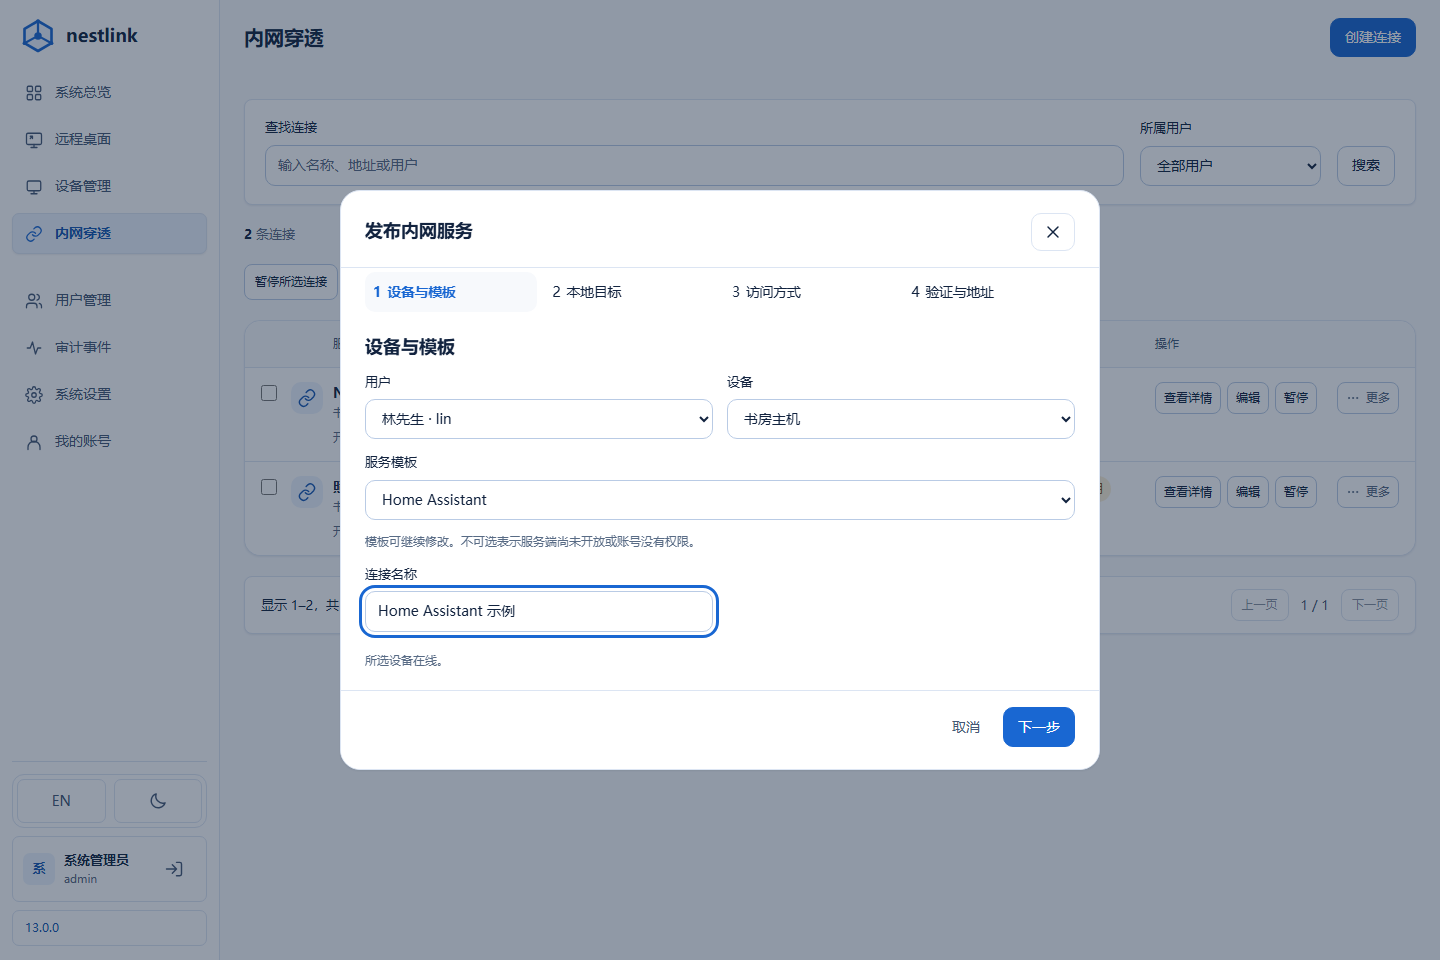
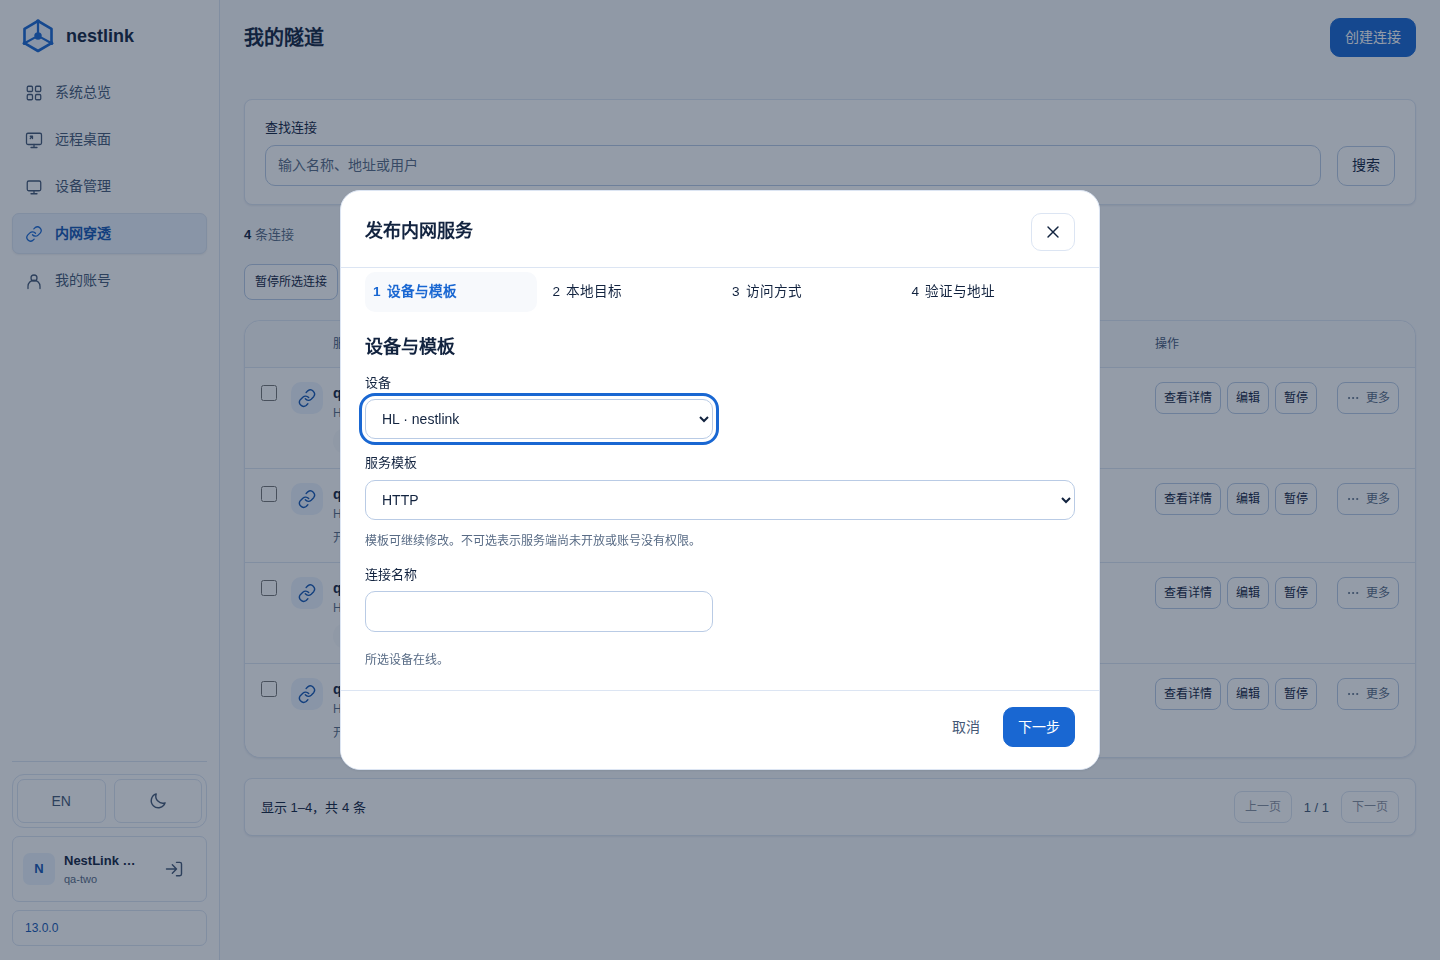
docs: capture deployed nestlink web UI and verify release bytes

diff --git a/scripts/test_screenshot_provenance.py b/scripts/test_screenshot_provenance.py
@@ -63,9 +63,32 @@ class ScreenshotProvenanceTests(unittest.TestCase):
     def test_component_preview_does_not_claim_installed_app_acceptance(self):
         path=self.site/"assets/13.0.0/desktop-capture-manifest.json"
         manifest=json.loads(path.read_text())
+        manifest["capture_kind"]="component-preview"
         manifest["installed_application"]=True
         path.write_text(json.dumps(manifest))
+        slots_path=self.site/"screenshot-slots.json"
+        slots=json.loads(slots_path.read_text())
+        for slot in slots["slots"]:
+            if slot["id"].startswith("desktop-"):
+                slot["capture_kind"]="component-preview"
+        slots_path.write_text(json.dumps(slots))
         self.assertTrue(any("cannot claim installed-app" in error for error in self.errors()))
+
+    def test_native_linux_capture_needs_installed_package_and_gui_hashes(self):
+        path=self.site/"assets/13.0.0/desktop-capture-manifest.json"
+        manifest=json.loads(path.read_text())
+        manifest.update(capture_kind="native-linux", installed_application=True, interactive=True)
+        manifest.pop("package_sha256", None)
+        manifest.pop("gui_sha256", None)
+        path.write_text(json.dumps(manifest))
+        slots_path=self.site/"screenshot-slots.json"
+        slots=json.loads(slots_path.read_text())
+        for slot in slots["slots"]:
+            if slot["id"].startswith("desktop-"):
+                slot["capture_kind"]="native-linux"
+        slots_path.write_text(json.dumps(slots))
+        self.assertTrue(any("actual Linux package_sha256" in error for error in self.errors()))
+        self.assertTrue(any("actual Linux gui_sha256" in error for error in self.errors()))
 
     def test_public_release_copy_keeps_objective_verification_scope(self):
         path = self.site / "index.html"

diff --git a/scripts/check-site-policy.py b/scripts/check-site-policy.py
@@ -57,6 +57,14 @@ def audit_capture(site, slot):
             errors.append(f"slot {slot_id} capture kind does not match its source")
         if slot.get("capture_kind") == "component-preview" and (manifest.get("installed_application") is not False or manifest.get("remote_session_verified") is not False):
             errors.append(f"slot {slot_id} component preview cannot claim installed-app or remote-session acceptance")
+        if slot.get("capture_kind") == "native-linux":
+            if manifest.get("installed_application") is not True or manifest.get("interactive") is not True:
+                errors.append(f"slot {slot_id} needs an installed interactive Linux application capture")
+            if manifest.get("repository") != "ZHanry/home-tunnel-client":
+                errors.append(f"slot {slot_id} needs the actual Linux product repository")
+            for key in ("package_sha256", "gui_sha256"):
+                if not re.fullmatch(r"[a-f0-9]{64}", manifest.get(key, "")):
+                    errors.append(f"slot {slot_id} needs the actual Linux {key}")
         entries = manifest.get("captures", manifest.get("screenshots", []))
         if slot.get("capture_kind") == "native-windows":
             if manifest.get("interactive") is not True:
